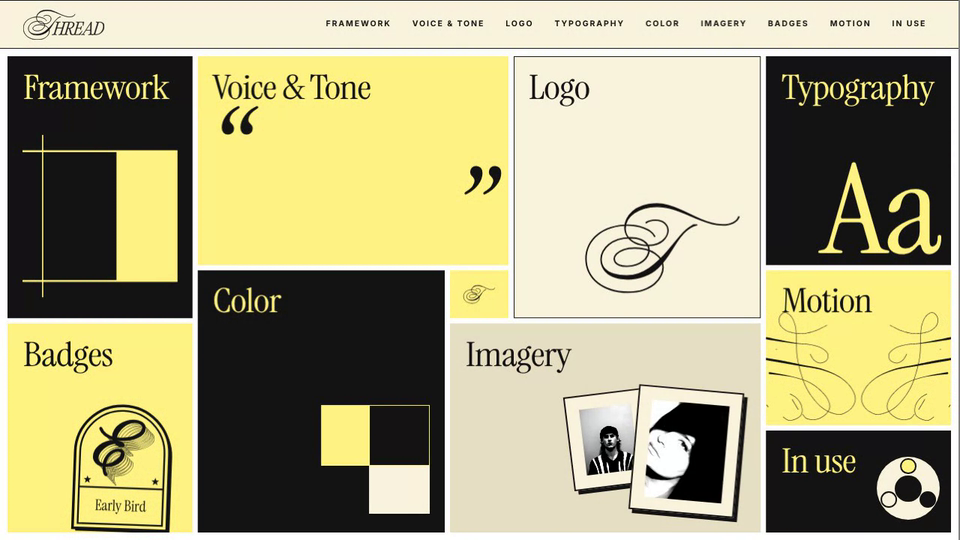
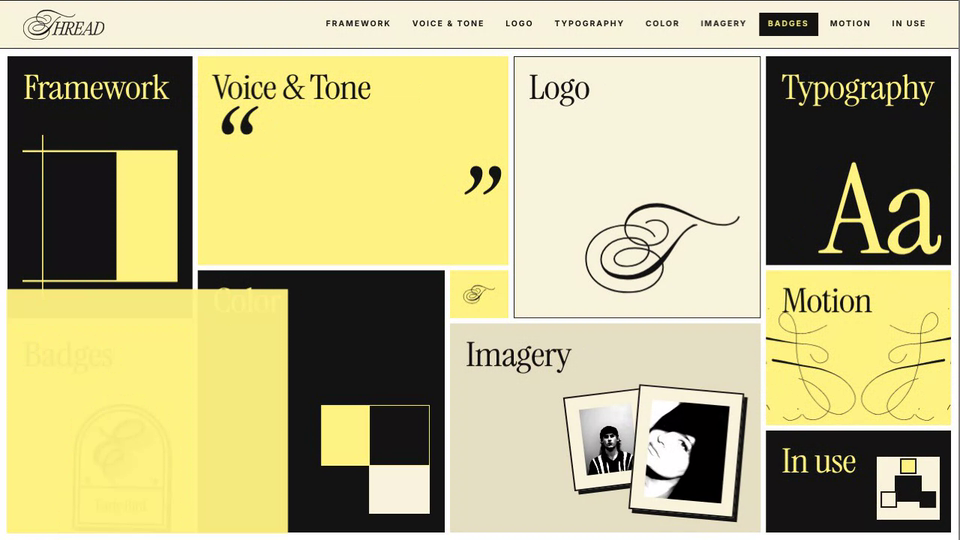
Thread Brand Guidelines: square palette switcher, remove Product from In use (#355)
* Add Thread Brand Guidelines: an interactive brand site built on the conference post styles

A Dropbox-brand-guidelines-style site for Thread 2026. Every specimen is drawn by
the Conference Post Generator's own engine (logo, calligraphy loops, outlined
prints, badges, hairline frame), so the page shows how the conference branding
actually works. Sections: Framework (live measurements), Voice & Tone (corporate
to Thread dial), Logo (clear space, minimum size, don'ts), Typography (editable
specimen), Color (copy hex, contrast pairings), Imagery (draggable prints),
Badges (five shapes, PNG export), Motion (scrubbable loop and timeline), In use
(three surfaces across the three colourways).

Adds the homepage tile, the clip recorder entry and the clip.

Claude-Session: https://claude.ai/code/session_01AHeBdzHaVuXhW6MXSpQR5w

* Thread Brand Guidelines: framework measurements in red

Claude-Session: https://claude.ai/code/session_01AHeBdzHaVuXhW6MXSpQR5w

* Thread Brand Guidelines: Type Designer tag beside the text controls, no border

Claude-Session: https://claude.ai/code/session_01AHeBdzHaVuXhW6MXSpQR5w

* Thread Brand Guidelines: list only pairings that pass AA contrast

Claude-Session: https://claude.ai/code/session_01AHeBdzHaVuXhW6MXSpQR5w

* Thread Brand Guidelines: badge titles sit higher

Claude-Session: https://claude.ai/code/session_01AHeBdzHaVuXhW6MXSpQR5w

* Thread Brand Guidelines: tile mosaic is the hero, sections expand from their tiles
[…]

diff --git a/thread-brand-guidelines/index.html b/thread-brand-guidelines/index.html
@@ -161,11 +161,11 @@ nav.back b{font-weight:500;color:#fff;overflow:hidden;text-overflow:ellipsis}
 .im:hover .mini{transform:rotate(-2deg) scale(1.04)}
 .im .mini img{display:block;width:100%;aspect-ratio:4/5;object-fit:cover;filter:grayscale(1) contrast(1.4)}
 .im .mini2{right:36%;bottom:22%;width:26%;transform:rotate(-7deg)}
-.us .rg{position:absolute;right:6%;bottom:12%;height:62%;aspect-ratio:1;border-radius:50%;background:var(--cream);transition:transform .8s var(--ease)}
-.us .rg::after{content:"";position:absolute;inset:29%;border-radius:50%;background:var(--ink)}
-.us .rg i{position:absolute;width:26%;aspect-ratio:1;border-radius:50%;border:2px solid var(--ink);transform:translate(-50%,-50%);z-index:1}
+.us .rg{position:absolute;right:6%;bottom:12%;height:62%;aspect-ratio:1;background:var(--cream);transition:transform .8s var(--ease)}
+.us .rg::after{content:"";position:absolute;inset:29%;background:var(--ink)}
+.us .rg i{position:absolute;width:26%;aspect-ratio:1;border:2px solid var(--ink);transform:translate(-50%,-50%);z-index:1}
 .us .rg i:nth-child(1){left:50%;top:14.5%;background:var(--yellow)}.us .rg i:nth-child(2){left:80.7%;top:67.8%;background:var(--ink)}.us .rg i:nth-child(3){left:19.3%;top:67.8%;background:var(--cream)}
-.us:hover .rg{transform:rotate(120deg)}
+.us:hover .rg{transform:rotate(90deg)}
 .bd canvas,.mo canvas{position:absolute;display:block}
 .bd canvas{right:-4%;bottom:-6%;width:84%}
 .mo canvas{left:0;right:0;bottom:0;width:100%}
@@ -291,12 +291,12 @@ nav.back b{font-weight:500;color:#fff;overflow:hidden;text-overflow:ellipsis}
 
 /* ---------- In use ---------- */
 .ringwrap{display:flex;align-items:center;gap:clamp(18px,3vw,40px);flex-wrap:wrap;margin-bottom:clamp(30px,4vw,56px);justify-content:space-between}
-.ring{position:relative;width:clamp(150px,16vw,220px);aspect-ratio:1;border-radius:50%;background:var(--cream);flex:none}
-.ring::after{content:"";position:absolute;inset:29%;border-radius:50%;background:var(--ink)}
-.ring button{position:absolute;width:26%;aspect-ratio:1;border-radius:50%;border:2px solid var(--ink);cursor:pointer;padding:0;transform:translate(-50%,-50%);transition:transform .5s var(--ease);z-index:2}
+.ring{position:relative;width:clamp(150px,16vw,220px);aspect-ratio:1;background:var(--cream);flex:none}
+.ring::after{content:"";position:absolute;inset:29%;background:var(--ink)}
+.ring button{position:absolute;width:26%;aspect-ratio:1;border-radius:0;border:2px solid var(--ink);cursor:pointer;padding:0;transform:translate(-50%,-50%);transition:transform .5s var(--ease);z-index:2}
 .ring button:hover{transform:translate(-50%,-50%) scale(1.12)}
 .ring button.on{box-shadow:0 0 0 3px var(--cream),0 0 0 5px var(--ink)}
-.surf{display:grid;grid-template-columns:repeat(3,minmax(0,1fr));gap:clamp(12px,1.8vw,26px)}
+.surf{display:grid;grid-template-columns:repeat(2,minmax(0,1fr));gap:clamp(12px,1.8vw,26px)}
 .surf>div{background:#222;padding:clamp(10px,1.4vw,18px);display:flex;flex-direction:column;gap:14px;border:1.5px solid var(--yellow)}
 .surf .lab{font:700 11px/1 var(--sans);letter-spacing:.18em;text-transform:uppercase;text-align:center;padding-top:4px}
 .surf .cell{flex:1;display:flex;align-items:center;justify-content:center;min-height:0}
@@ -618,10 +618,6 @@ footer.end .row a{text-decoration:none}
         <div class="hd"><span class="slide">Thread 2026<br>in under<br>10 minutes</span><p>The SMS marketing conference, May 12–14 in New York.</p><span class="tb">Register now</span></div>
         <div class="band"><div><span>Keynote · Day 1</span><b>9:30</b></div><div><span>Workshops</span><b>11:00</b></div><div><span>Speaker panel</span><b>14:15</b></div></div>
       </div></div><div class="lab">Web</div></div>
-      <div><div class="cell"><div class="mock prod"><div class="pin">
-        <div class="av"><i>TH</i><i>MC</i><i>JR</i><i>12</i></div>
-        <div class="pc"><div class="ph"><img src="photos/p1.jpg" alt=""></div><canvas id="uBd" aria-hidden="true"></canvas><span class="cu"><svg viewBox="0 0 14 14" aria-hidden="true"><path d="M1 1l12 4.4-5 2.2-2.2 5z" fill="currentColor"/></svg>James</span></div>
-      </div></div></div><div class="lab">Product</div></div>
     </div>
   </div></div>
 </section>
@@ -1436,7 +1432,6 @@ function setUse(k) { US.th = k; const u = $('#use'); u.dataset.th = k; u.style.s
 ring.addEventListener('click', (e) => { const b = e.target.closest('[data-v]'); if (b) { US.picked = true; setUse(b.dataset.v); } });
 setUse('yellow');
 surface($('#uMk'), { W: 1600, H: 1600, draw: (ctx, W, H, t, still) => withS({ ...POST, headline: 'Thread 2026\nin under\n10 minutes', sub: 'The SMS marketing conference', theme: US.th }, () => render(ctx, W, H, t, still)) });
-surface($('#uBd'), { W: 420, H: 420, draw: (ctx, W, H, t) => drawBadge(ctx, THEMES.yellow, 'circle', W / 2, H / 2 + 4 * sway(t, 1), 330, 0.07 + 0.02 * sway(t, 0), 'Speaker', 9) });
 new IntersectionObserver((es) => { US.vis = es[0].isIntersecting; }).observe($('#use'));
 setInterval(() => { if (US.vis && !US.picked && frozen == null && !reduce) { const k = Object.keys(THS); setUse(k[(k.indexOf(US.th) + 1) % 3]); } }, 3400);
 
